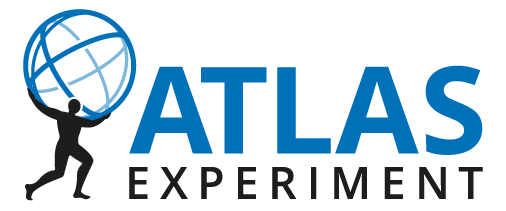
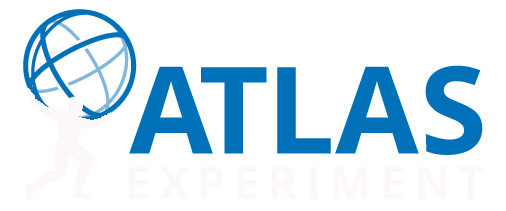
change 4

diff --git a/style.css b/style.css
@@ -36,15 +36,15 @@ body{
   width: 100%;
   display: inline-block;
   margin-top: 2%;
-  margin-bottom: 4%;
+  margin-bottom: 1%;
 }
 
 .logoImage{
   display: inline-block;
   float:left;
-  width: 25%;
-  margin-left: 12.5%;
-  margin-right: 12.5%  ;
+  width: 20%;
+  margin-left: 15%;
+  margin-right: 15%;
 }
 
 div.menuIcon{
@@ -103,7 +103,7 @@ div.menuIcon{
     to   { opacity: 1; }
 }
 
-#button{
+.button{
   display: inline-block;
   flex:1;
   border: none;
@@ -115,25 +115,43 @@ div.menuIcon{
   font-size: 30px;
 }
 
-#button:hover{
+.button:hover{
   background-color: #FCF7F8;
   color: #0B80C3;
 }
 
-#button:focus{
+.button:focus{
   outline:0;
 }
 
-.binder{
-
+#interactive{
+  content:url("assets/interactive.png");
+  margin-top:10%;
+  width: 25%;
+  margin-left: 37.5%;
+}
+#buttoni:hover #interactive{
+   content:url("assets/interactive_dark.png");
 }
 
-.docs{
-  margin: 0 5%;
+#docs{
+  content:url("assets/docs.png");
+  width:30%;
+  margin-left:35%;
+  margin-top:15%;
+}
+#buttond:hover #docs{
+  content:url("assets/docs_dark.png")
 }
 
-.swan{
-
+#jupyter{
+  content:url("assets/jupyter_light.png");
+  width:30%;
+  margin-left:35%;
+  margin-top: 13%;
+}
+#buttonj:hover #jupyter{
+  content:url("assets/jupyter.png")
 }
 
 div.container{

diff --git a/index.html b/index.html
@@ -19,13 +19,16 @@
     </div>
     <div class="header">
       <img class="logoImage" src="assets/logo_blue.png"/>
-      <img class="logoImage" src="assets/atlas.png"/>
+      <img class="logoImage" src="assets/atlas.png" style="width:17%"/>
     </div>
     <div class="container">
       <!-- Ander wrote this bit. Note how the id's are used as classes and the classes are used as Ids -->
-      <button type="button" id="button" class="binder" onclick="location.href='docs.html'">Documentation</button>
-      <button type="button" id="button" class="docs" onclick="window.location.href('google.com')">Interactive</button>
-      <button type="button" id="button" class="swan" onclick="window.location.href('google.com')">Notebooks</button>
+      <button type="button" class="button" id="buttond" onclick="location.href='docs.html'">Documentation
+        <div id="docs"></div></button>
+      <button type="button" class="button" id="buttoni" style="margin: 0 5%;" onclick="window.location.href('google.com')">Interactive
+        <div id="interactive"></div></button>
+      <button type="button" class="button" id="buttonj" onclick="window.location.href('google.com')">Notebooks
+        <div id="jupyter"></div></button>
     </div>
   </body>
 </html>

diff --git a/docs.html b/docs.html
@@ -6,6 +6,15 @@
   <script src="index.js"></script>
   <link rel="stylesheet" type="text/css" href="style.css">
   <body onload="getDocs()">
+    <div class="menuIcon" onclick="openNav()"><img src="assets/menu_icon.svg"/></div>
+    <div id="sideNav" class="sideNav">
+      <h1>Menu</h1>
+      <a href="javascript:void(0)" class="closebtn" onclick="closeNav()">&times;</a>
+      <a href="docs/atlas_detector/index.html">1</a>
+      <a href="#">2</a>
+      <a href="#">2</a>
+      <a href="#">4</a>
+    </div>
     <div class="container">
       <div class="header">
         <h1>Documentation</h1>
